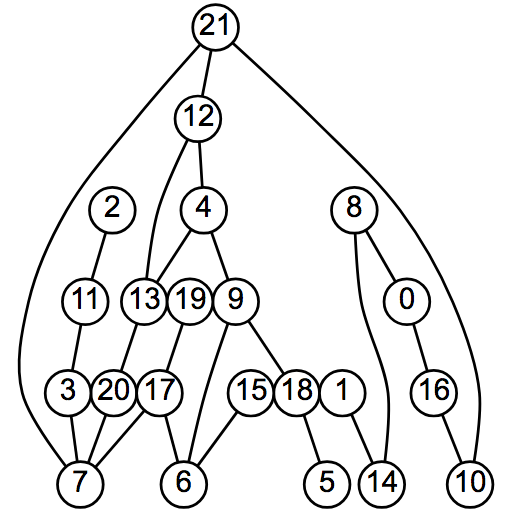
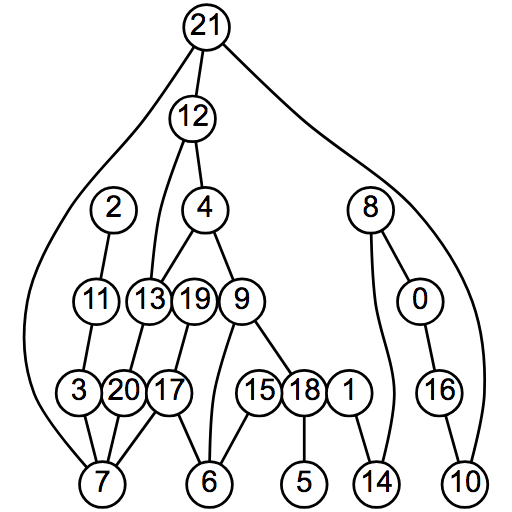
Refactor coordinate assignment

Changed region(s): [[0.0312, 0.0, 0.9688, 1.0], [0.0625, 0.4688, 0.0938, 0.5625], [0.6562, 0.2812, 0.6875, 0.3125]]

diff --git a/src/sugiyama/coord/minQp.js b/src/sugiyama/coord/minQp.js
@@ -10,69 +10,44 @@ export function indices(layers) {
 }
 
 // Compute constraint arrays for layer separation
-export function sep(layers, inds) {
-  const n = Object.keys(inds).length;
+export function sep(layers, inds, separation) {
+  const n = 1 + Math.max(...Object.values(inds));
   const A = [];
   const b = [];
 
   layers.forEach(layer => layer.slice(0, layer.length - 1).forEach((first, i) => {
+    const second = layer[i + 1];
     const find = inds[first.id];
-    const sind = inds[layer[i + 1].id];
+    const sind = inds[second.id];
     const cons = new Array(n).fill(0);
     cons[find] = 1;
     cons[sind] = -1;
     A.push(cons);
-    // TODO This could be tweaked to space different pairs different relative amounts apart
-    b.push(-1);
+    b.push(-separation(first, second));
   }));
 
   return [A, b];
 }
 
-// Compute Q that minimizes edge distance squared
-export function minDist(layers, inds) {
-  const n = Object.keys(inds).length;
-  const Q = new Array(n).fill(null).map(() => new Array(n).fill(0));
-  layers.forEach(layer => layer.forEach(parent => {
-    const pind = inds[parent.id];
-    parent.children.forEach(child => {
-      const cind = inds[child.id];
-      Q[pind][pind] += 1;
-      Q[cind][cind] += 1;
-      Q[pind][cind] -= 1;
-      Q[cind][pind] -= 1;
-    });
-  }));
-  return Q;
+// Update Q that minimizes edge distance squared
+export function minDist(Q, pind, cind, coef) {
+  Q[cind][cind] += coef;
+  Q[cind][pind] -= coef;
+  Q[pind][cind] -= coef;
+  Q[pind][pind] += coef;
 }
 
-// Compute Q that minimizes curve of edges through a node
-// This Q will be singular, so it's necessary to combine with another Q
-export function minBend(layers, inds, filter = () => true) {
-  const n = Object.keys(inds).length;
-  const Q = new Array(n).fill(null).map(() => new Array(n).fill(0));
-  layers.forEach(layer => layer.forEach(parent => {
-    const pind = inds[parent.id];
-    parent.children.forEach(node => {
-      if (filter(node)) {
-        const nind = inds[node.id];
-        node.children.forEach(child => {
-          const cind = inds[child.id];
-          Q[nind][nind] += 4;
-          Q[pind][pind] += 1;
-          Q[cind][cind] += 1;
-
-          Q[pind][cind] += 1;
-          Q[cind][pind] += 1;
-          Q[nind][pind] -= 2;
-          Q[pind][nind] -= 2;
-          Q[nind][cind] -= 2;
-          Q[cind][nind] -= 2;
-        });
-      }
-    });
-  }));
-  return Q;
+// Update Q that minimizes curve of edges through a node
+export function minBend(Q, pind, nind, cind, coef) {
+  Q[cind][cind] += coef;
+  Q[cind][nind] -= 2 * coef;
+  Q[cind][pind] += coef;
+  Q[nind][cind] -= 2 * coef;
+  Q[nind][nind] += 4 * coef;
+  Q[nind][pind] -= 2 * coef;
+  Q[pind][cind] += coef;
+  Q[pind][nind] -= 2 * coef;
+  Q[pind][pind] += coef;
 }
 
 // Solve for node positions

diff --git a/src/sugiyama/coord/vert.js b/src/sugiyama/coord/vert.js
@@ -1,18 +1,9 @@
 // Assign nodes in each layer an x coordinate in [0, 1] that minimizes curves
 import { indices, sep, minDist, minBend, solve, layout } from "./minQp";
 
-function checkWeight(weight) {
-  if (weight < 0 || weight >= 1) {
-    throw new Error(`weight must be in [0, 1), but was ${weight}`);
-  } else {
-    return weight;
-  }
-}
-
 export default function() {
-  let weight = 0.5;
   
-  function coordMinCurve(layers, separation) {
+  function coordVert(layers, separation) {
     const inds = indices(layers);
     const n = Object.keys(inds).length;
     const [A, b] = sep(layers, inds, separation);
@@ -23,18 +14,25 @@ export default function() {
       const pind = inds[parent.id];
       parent.children.forEach(child => {
         const cind = inds[child.id];
-        minDist(Q, pind, cind, 1 - weight);
+        if (parent.data) {
+          minDist(Q, pind, cind, 1);
+        }
+        if (child.data) {
+          minDist(Q, pind, cind, 1);
+        }
       });
     }));
 
     layers.forEach(layer => layer.forEach(parent => {
       const pind = inds[parent.id];
       parent.children.forEach(node => {
-        const nind = inds[node.id];
-        node.children.forEach(child => {
-          const cind = inds[child.id];
-          minBend(Q, pind, nind, cind, weight);
-        });
+        if (!node.data) {
+          const nind = inds[node.id];
+          node.children.forEach(child => {
+            const cind = inds[child.id];
+            minBend(Q, pind, nind, cind, 1);
+          });
+        }
       });
     }));
     
@@ -43,9 +41,5 @@ export default function() {
     return layers;
   }
 
-  coordMinCurve.weight = function(x) {
-    return arguments.length ? (weight = checkWeight(x), coordMinCurve) : weight;
-  }
-
-  return coordMinCurve;
+  return coordVert;
 }

diff --git a/src/sugiyama/coord/topological.js b/src/sugiyama/coord/topological.js
@@ -1,0 +1,41 @@
+// Assign nodes in each layer an x coordinate in [0, 1] that minimizes curves
+import { sep, minBend, solve, layout } from "./minQp";
+
+export default function() {
+  
+  function coordTopological(layers, separation) {
+    if (!layers.every(layer => 1 === layer.reduce((c, n) => c + !!n.data, 0))) {
+      throw new Error("coordTopological() only works with a topological ordering");
+    }
+
+    // This takes advantage that the last "node" is set to 0
+    const inds = {};
+    let i = 0;
+    layers.forEach(layer => layer.forEach(n => n.data || (inds[n.id] = i++)));
+    layers.forEach(layer => layer.forEach(n => inds[n.id] === undefined && (inds[n.id] = i)));
+
+    const n = ++i;
+    const [A, b] = sep(layers, inds, separation);
+
+    const c = new Array(n).fill(0);
+    const Q = new Array(n).fill(null).map(() => new Array(n).fill(0));
+    layers.forEach(layer => layer.forEach(parent => {
+      const pind = inds[parent.id];
+      parent.children.forEach(node => {
+        if (!node.data) {
+          const nind = inds[node.id];
+          node.children.forEach(child => {
+            const cind = inds[child.id];
+            minBend(Q, pind, nind, cind, 1);
+          });
+        }
+      });
+    }));
+    
+    const solution = solve(Q, c, A, b);
+    layout(layers, inds, solution);
+    return layers;
+  }
+
+  return coordTopological;
+}

diff --git a/src/sugiyama/index.js b/src/sugiyama/index.js
@@ -4,7 +4,7 @@
 import Node from "../dag";
 import simplex from "./layering/simplex";
 import opt from "./decross/opt";
-import minCurve from "./coord/minCurve";
+import vert from "./coord/vert";
 
 export default function() {
   let debug = false;
@@ -12,7 +12,8 @@ export default function() {
   let height = 1;
   let layering = simplex();
   let decross = opt();
-  let coord = minCurve();
+  let coord = vert();
+  let separation = defaultSeparation;
 
   // Takes a dag where nodes have a layer attribute, and adds dummy nodes so each
   // layer is adjacent, and returns an array of each layer of nodes.
@@ -77,7 +78,7 @@ export default function() {
       // Minimize edge crossings
       decross(layers);
       // Assign coordinates
-      coord(layers);
+      coord(layers, separation);
       // Scale x
       layers.forEach(layer => layer.forEach(n => n.x *= width));
     }
@@ -106,5 +107,13 @@ export default function() {
     return arguments.length ? (coord = x, sugiyama) : coord;
   }
 
+  sugiyama.separation = function(x) {
+    return arguments.length ? (separation = x, sugiyama) : separation;
+  }
+
   return sugiyama;
+}
+
+function defaultSeparation() {
+  return 1;
 }

diff --git a/test/sugiyama/coord/topological-test.js b/test/sugiyama/coord/topological-test.js
@@ -1,0 +1,28 @@
+const tape = require("tape"),
+  close = require("../../close"),
+  load = require("../../load"),
+  d3_dag = require("../../../");
+
+// Curve methods currently minimize distance too, so they're not quite a perfect curve minimization
+const eps = 0.001;
+
+tape("coordTopological() works for ex", test => {
+  const layout = d3_dag.sugiyama()
+    .layering(d3_dag.layeringTopological())
+    .decross(d3_dag.decrossOpt())
+    .coord(d3_dag.coordTopological())
+    .size([1, 2]);
+  const dag = layout(load("ex"));
+  const exes = dag.descendants().sort((a, b) => a.id - b.id).map(n => n.x);
+  test.ok(exes.every(x => close(x, 0.5, eps)));
+  test.end();
+});
+
+tape("coordTopological() fails for none topological layout", test => {
+  const layout = d3_dag.sugiyama()
+    .layering(d3_dag.layeringSimplex())
+    .coord(d3_dag.coordTopological());
+  const dag = load("ex");
+  test.throws(() => layout(dag), /only works with a topological ordering/);
+  test.end();
+});

diff --git a/test/sugiyama/coord/vert-test.js b/test/sugiyama/coord/vert-test.js
@@ -6,16 +6,16 @@ const tape = require("tape"),
 // Curve methods currently minimize distance too, so they're not quite a perfect curve minimization
 const eps = 0.001;
 
-tape("coordMinBend() works for triangle", test => {
+tape("coordVert() works for triangle", test => {
   const layout = d3_dag.sugiyama()
     .layering(d3_dag.layeringSimplex())
     .decross(d3_dag.decrossOpt())
-    .coord(d3_dag.coordMinBend().weight(0.9999))
+    .coord(d3_dag.coordVert())
     .size([1, 2]);
   const dag = layout(load("triangle"));
   const [zero, one, two] = dag.descendants().sort((a, b) => a.id - b.id).map(n => n.x);
-  test.ok(close(zero, 1, eps));
-  test.ok(close(one, 0, eps));
-  test.ok(close(two, 1, eps));
+  test.ok(close(zero, 0.6, eps));
+  test.ok(close(one, 0.0, eps));
+  test.ok(close(two, 0.6, eps));
   test.end();
 });

diff --git a/src/sugiyama/coord/spread.js b/src/sugiyama/coord/spread.js
@@ -1,13 +1,18 @@
 // Compute x coordinates for nodes that maximizes the spread of nodes in [0, 1]
 export default function() {
   
-  function coordSpread(layers) {
+  function coordSpread(layers, separation) {
     layers.forEach(layer => {
       if (layer.length === 1) {
         const [node] = layer;
         node.x = 1 / 2;
       } else {
-        layer.forEach((n, j) => n.x = j / (layer.length - 1));
+        layer.reduce((last, node) => {
+          node.x = last === undefined ? 0 : last.x + separation(last, node);
+          return node;
+        }, undefined)
+        const width = layer[layer.length - 1].x;
+        layer.forEach(n => n.x /= width);
       }
     });
     return layers;

diff --git a/index.js b/index.js
@@ -1,6 +1,7 @@
-export { default as coordMinBend } from "./src/sugiyama/coord/minBend";
 export { default as coordMinCurve } from "./src/sugiyama/coord/minCurve";
 export { default as coordSpread } from "./src/sugiyama/coord/spread";
+export { default as coordTopological } from "./src/sugiyama/coord/topological";
+export { default as coordVert } from "./src/sugiyama/coord/vert";
 export { default as decrossOpt } from "./src/sugiyama/decross/opt";
 export { default as decrossTwoLayer } from "./src/sugiyama/decross/twoLayer";
 export { default as dierarchy } from "./src/dag/hierarchy";

diff --git a/examples/vert_256,256.html b/examples/vert_256,256.html
@@ -11,8 +11,9 @@
         const grafo = await fetch('/test/data/grafo.json', { mode: 'no-cors' }).then(r => r.json());
         const dag = d3.dratify()(grafo);
         d3.sugiyama()
-          .layering(d3.layeringTopological())
+          .coord(d3.coordVert())
           (dag);
+        // FIXME Layout with vertical edges leaving nodes
         layout(dag);
       })();
     </script>

diff --git a/examples/topological_128,512.html b/examples/topological_128,512.html
@@ -11,7 +11,9 @@
         const grafo = await fetch('/test/data/grafo.json', { mode: 'no-cors' }).then(r => r.json());
         const dag = d3.dratify()(grafo);
         d3.sugiyama()
-          .coord(d3.coordMinBend())
+          .layering(d3.layeringTopological())
+          .coord(d3.coordTopological())
+          .size([0.5, 2])
           (dag);
         layout(dag);
       })();

diff --git a/test/sugiyama/sugiyama-test.js b/test/sugiyama/sugiyama-test.js
@@ -10,3 +10,11 @@ tape("sugiyama() works for grafo", test => {
   test.equals(dag.descendants().length, nodesBefore);
   test.end();
 });
+
+tape("sugiyama() works with separation", test => {
+  const dag = load("grafo");
+  const nodesBefore = dag.descendants().length;
+  d3_dag.sugiyama().size([2, 2])(dag);
+  test.equals(dag.descendants().length, nodesBefore);
+  test.end();
+});
